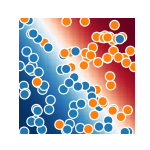
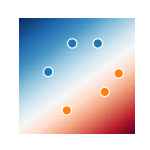
Fix data-none submit error

diff --git a/ui.py b/ui.py
@@ -9,7 +9,7 @@ from models.model_prototype import model_prototype
 import tkinter as tk
 from tkinter import ttk, messagebox, IntVar
 from PIL import Image, ImageTk
-import threading
+import threading, time
 
 class ui_manager:
 	def __init__(self):
@@ -218,10 +218,13 @@ class ui_manager:
 
 	def submit_data(self):
 		data = self.samples.get_data()
-		self.model.feed_data(data)
-		self.tab_parent.tab(3, state="normal")
-		self.tab_parent.select(3)
-		self.stop_process()
+		if data == []:
+			messagebox.showinfo("Data Error", "Data must not be empty")
+		else:
+			self.model.feed_data(data)
+			self.tab_parent.tab(3, state="normal")
+			self.tab_parent.select(3)
+			self.stop_process()
 
 	def enable_visual(self):
 		if self.process is None:
@@ -267,14 +270,16 @@ class ui_manager:
 	def loop_visualize(self):
 		while not(self.stop.is_set()):
 			event_is_set = self.event.wait()
+			# print("Am doing shit")
+			# time.sleep(1)
 			self.model.next_step()
 			bmp = ImageTk.PhotoImage(self.visual.visualize())
 			self.image_tab_visual.config(image = bmp)
 
 	def stop_process(self):
 		if not(self.process is None):
-			self.event.set()
 			self.stop.set()
+			self.event.set()			
 			self.process.join()
 			self.process = None
 			self.pause_process()
